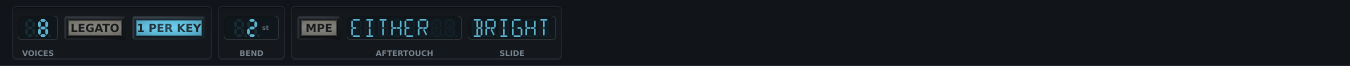
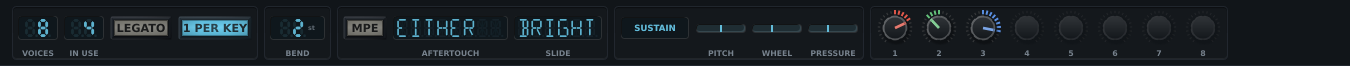
Describe the Playing bar's readouts and macros, and picture them

diff --git a/docs/playing/index.html b/docs/playing/index.html
@@ -63,7 +63,7 @@
                     "width": 1200,
                     "height": 630
                 },
-                "dateModified": "2026-10-11",
+                "dateModified": "2026-10-12",
                 "breadcrumb": {
                     "@id": "https://benjamindehli.github.io/overtonium/playing/#breadcrumb"
                 }
@@ -376,22 +376,26 @@
                     </p>
 
                     <p>
-                        <strong>Playing</strong> holds the voice count with Legato and One voice per key beside it, the pitch bend range, and MPE with
-                        Aftertouch from and Slide to. <strong>Tuning</strong> holds the temperament, root and reference pitch, with the drift beside
-                        them under Adaptive. Under Adaptive it also has a NO DRIFT switch that keeps the keyboard home, a 7:4 switch for the harmonic
-                        seventh, a PURE lamp and the Retune knob, which between them say <a href="../tuning/#adaptive">what Adaptive is doing</a> to
-                        the chord you hold. Last come twelve displays, one for each note, saying how far it sits from equal temperament in cents, with
-                        the white keys on a lighter ground the way a keyboard has them. Each display opens the same list as its entry in Settings and
-                        each switch lights while it is on, so a bar is another way to reach the same settings rather than a second copy of them. In a
-                        window too narrow for a whole bar, it wraps onto further rows the way the top bar does, and takes the extra height from the
-                        mixer.
+                        <strong>Playing</strong> holds the voice count with IN USE, how many voices are sounding, release tails included, and Legato
+                        and One voice per key beside it, the pitch bend range, and MPE with Aftertouch from and Slide to. Then it shows what your
+                        hands are doing. SUSTAIN lights while the pedal is down. PITCH shows the pitch wheel from the middle against the bend range,
+                        or under MPE the key bent furthest. WHEEL and PRESSURE rise from the left, PRESSURE showing what Aftertouch from follows or
+                        the key pressed hardest, whichever is more. Last come the eight <a href="#macros">macros</a> as knobs in their colours, each
+                        turning the same amount as its slider in MACROS, and a macro not yet made shows a blank knob. <strong>Tuning</strong> holds
+                        the temperament, root and reference pitch, with the drift beside them under Adaptive. Under Adaptive it also has a NO DRIFT
+                        switch that keeps the keyboard home, a 7:4 switch for the harmonic seventh, a PURE lamp and the Retune knob, which between
+                        them say <a href="../tuning/#adaptive">what Adaptive is doing</a> to the chord you hold. Last come twelve displays, one for
+                        each note, saying how far it sits from equal temperament in cents, with the white keys on a lighter ground the way a keyboard
+                        has them. Each display of a setting opens the same list as its entry in Settings and each switch lights while it is on, so a
+                        bar is another way to reach the same settings rather than a second copy of them. In a window too narrow for a whole bar, it
+                        wraps onto further rows the way the top bar does, and takes the extra height from the mixer.
                     </p>
 
                     <figure>
                         <img
                             loading="lazy"
                             src="../overtonium-playing-bar.webp"
-                            alt="The Playing bar: eight voices with Legato off and One voice per key lit, a bend range of 2 semitones, and MPE off with aftertouch from Either and slide to Brightness."
+                            alt="The Playing bar with C7 held on the pedal: eight voices with four in use, Legato off and One voice per key lit, a bend range of 2 semitones, MPE off with aftertouch from Either and slide to Brightness, SUSTAIN lit, the pitch wheel at rest in the middle, the mod wheel and pressure part way up, and three macros made in red, green and blue followed by five blank knobs."
                             width="1350"
                             height="66"
                         />

diff --git a/Tools/render_docs_images.cpp b/Tools/render_docs_images.cpp
@@ -29,6 +29,7 @@
 #include <cstdio>
 #include <cstdlib>
 #include <functional>
+#include <iterator>
 #include <memory>
 #include <vector>
 
@@ -269,6 +270,9 @@ int main(int argc, char **argv) {
   // window as it first opens. The Tuning bar is shown under Adaptive with C7
   // held in place of the chord above, the chord the Tuning page describes its
   // readouts on, so the picture can be checked against what the page says.
+  // The Playing bar shows C7 played with the pedal down, the mod wheel part
+  // way up and some pressure, and three macros made, so its readouts and
+  // knobs have something to show.
   juce::TextButton *playingButton = nullptr, *tuningButton = nullptr;
   for (auto *b : descendantsOf<juce::TextButton>(*editor)) {
     if (b->getTitle() == "Playing")
@@ -303,9 +307,35 @@ int main(int argc, char **argv) {
       midi.clear();
     }
 
-    if (pass == 0)
+    if (pass == 0) {
       for (int note : kSeventh)
         midi.addEvent(juce::MidiMessage::noteOn(1, note, 0.9f), 0);
+
+      // After the first chord's note-offs, so the pedal holds only C7.
+      midi.addEvent(juce::MidiMessage::controllerEvent(1, 64, 127), 0);
+      midi.addEvent(juce::MidiMessage::controllerEvent(1, 1, 52), 0);
+      midi.addEvent(juce::MidiMessage::channelPressureChange(1, 40), 0);
+    }
+  }
+
+  // Level, Pitch mod depth and Release, in red, green and blue, pushed by
+  // differing amounts either way.
+  {
+    const struct {
+      int row, colour;
+      float amount;
+    } made[] = {{19, 1, 0.45f}, {4, 4, -0.3f}, {13, 6, 0.7f}};
+
+    const auto set = [&plugin](const juce::String &id, float plain) {
+      if (auto *parameter = plugin.apvts.getParameter(id))
+        parameter->setValueNotifyingHost(parameter->convertTo0to1(plain));
+    };
+
+    for (int m = 0; m < (int)std::size(made); ++m) {
+      set(ovt::params::macroRowId(m), (float)made[m].row);
+      set(ovt::params::macroColourId(m), (float)made[m].colour);
+      set(ovt::params::macroAmountId(m), made[m].amount);
+    }
   }
 
   playingButton->onClick();
@@ -317,6 +347,10 @@ int main(int argc, char **argv) {
     latest = chord;
 
   playing.front()->refresh();
+  playing.front()->showActivity(
+      {plugin.getActiveVoiceCount(), plugin.isSustainDown(),
+       plugin.getBendPosition(), plugin.getWheelPosition(),
+       plugin.getPressurePosition()});
   tuning.front()->refresh();
   tuning.front()->showChord(latest);
 

diff --git a/Tests/plugin_runtime_test.cpp b/Tests/plugin_runtime_test.cpp
@@ -7781,6 +7781,37 @@ void testPlayingReadouts(OvertoniumProcessor &p) {
   check(mpeDown && !p.isSustainDown(), "and SUSTAIN follows the pedal");
 
   send({juce::MidiMessage::allSoundOff(1)});
+  setParam(ovt::params::mpeId, 0.0f);
+  send({});
+
+  // The editor reads all of this from the message thread while the audio
+  // thread writes it. Nothing here can see a race, but a run under the thread
+  // sanitizer can, and this is what gives it two threads to watch.
+  {
+    std::atomic<bool> playing{true};
+    std::thread audio([&] {
+      for (int b = 0; b < 200; ++b) {
+        const auto on = (b % 2) == 0;
+        send({juce::MidiMessage::controllerEvent(1, 64, on ? 127 : 0),
+              juce::MidiMessage::controllerEvent(1, 1, b % 128),
+              juce::MidiMessage::pitchWheel(1, (b * 80) % 16384),
+              on ? juce::MidiMessage::noteOn(1, 60 + b % 12, 0.8f)
+                 : juce::MidiMessage::noteOff(1, 60 + (b - 1) % 12)});
+      }
+      playing = false;
+    });
+
+    float seen = 0.0f;
+    while (playing)
+      seen += (float)p.getActiveVoiceCount() + (float)p.isSustainDown() +
+              p.getBendPosition() + p.getWheelPosition() +
+              p.getPressurePosition();
+
+    audio.join();
+    check(std::isfinite(seen), "and all of it can be read while it is played");
+  }
+
+  send({juce::MidiMessage::allSoundOff(1)});
   restoreSessionSettings(p);
   p.applyFactoryPreset(presetIndex("Init"));
 }

diff --git a/DESIGN.md b/DESIGN.md
@@ -430,9 +430,13 @@ The settings that get changed while playing, the voice count, Legato, one voice 
 
 **Both start closed, and the window keeps its size.** A bar takes its height from the mixer, which scrolls, so opening one never resizes a plugin window, which hosts handle badly. The exception is a window already at its minimum, which grows by the bar, since the floor counts the open bars. Which are open is kept with the session, beside the fold mask.
 
-**A bar is the Settings menu's own lists.** Each display opens the same list its Settings entry has, built by `ui::settings` in `SettingsMenus.cpp`, and both carry out a choice through the same `settings::apply` with the same item ids, so the two cannot drift apart. The menu keeps every entry. In a narrow window a bar wraps its groups onto further rows the way the top bar does, each a row of the top bar's height, and the window's floor counts the rows. A group wider than the whole bar, which the top bar never has, wraps its own controls onto lines inside its frame, shared out evenly, so the twelve cents displays come out as two lines of six rather than eleven and one.
+**A bar is the Settings menu's own lists.** Each display of a setting opens the same list its Settings entry has, built by `ui::settings` in `SettingsMenus.cpp`, and both carry out a choice through the same `settings::apply` with the same item ids, so the two cannot drift apart. The menu keeps every entry. In a narrow window a bar wraps its groups onto further rows the way the top bar does, each a row of the top bar's height, and the window's floor counts the rows. A group wider than the whole bar, which the top bar never has, wraps its own controls onto lines inside its frame, shared out evenly, so the twelve cents displays come out as two lines of six rather than eleven and one.
 
 **The readouts are worked out off the audio thread.** After every settle the engine publishes the held chord, each key's frequency and version and whether it is the harmonic seventh, through a triple buffer, and the editor reads it at 30 Hz whether or not the bar is open, so the bar opens on the chord being held. `AdaptiveReading::of` works out from it whether any interval was given up, whether a seventh is on 7:4, and the drift as the chord's average version, and the bar shows them as PURE and 7:4, two words lit in screens the way the gutter's switches are, and a two-cell DRIFT display. A screen reader is told which interval gave way when PURE is dark. A panel of lit words and segments had no place for a line of free text saying 4:5:6:7, so the harmonic numbers are not shown.
+
+**The Playing bar shows what the hands are doing.** IN USE, SUSTAIN and three needles, PITCH, WHEEL and PRESSURE, read what the processor publishes at the end of every block, as atomics beside the voice count. Each is one number on its own, so nothing has to be handed over as a set. The processor follows the pedal itself, one bit per MIDI channel, rather than asking the engine, because under MPE the parser takes CC 64 and the engine never hears it. PITCH is the pitch wheel or, under MPE, the key bent furthest, against the BEND range either way, so it means the same with MPE on or off. PRESSURE is what Aftertouch from hands every channel or the key pressed hardest, whichever is more. Only keys still down count, the pedal's included, so a needle falls back as a key comes up rather than when its tail ends. The needles are the strips' PITCH MOD needle: PITCH rests in the middle and is marked there, and WHEEL and PRESSURE rest at the left end with no mark, since a middle means nothing to a reading that only rises.
+
+**The macros are knobs on the same parameters.** Each turns its macro's amount, the parameter the slider in MACROS turns, so the two cannot disagree, and wears the macro's colour and its row's skew. A macro nobody has made has a blank knob, its ring unlit, no pointer, and its cap at rest, since the collar turns with the knob and would give a setting away. They are numbered rather than named, because a row's name is too long for the caption under a 38 pixel knob and the colour already says which is which, as it does in the panel. With them the Playing bar takes four rows at the narrowest window.
 
 **Twelve displays, one a pitch class, in every temperament.** Each says how far its note sits from equal temperament in cents, with A on the reference, measured at middle C's octave since a pitch class sits the same distance from equal in all of them. Two keys an octave apart always read the same under Adaptive too, since octaves are taken first and never given up. Under a fixed temperament the twelve are a chart of the scale, all lit, because what a key is tuned to does not depend on what is held. Under Adaptive the held ones light and show where they are sounding, and the rest stay unlit. What each of those would sound if struck into silence, the version its pitch class used last, which the engine publishes with the chord, is still worked out and given to a screen reader. Cents rather than ratios, because half the temperaments have no ratios to give and the display has to mean the same thing under all of them. The seven white keys stand on the unlit plastic every cap on the panel is moulded in, with their names in the caps' near-black ink, and the five black keys on the pocket's dark floor, so which note is which reads the way a keyboard does. The ground is drawn on the panel behind each display and its name rather than in the display. It runs to the pocket's edges and halfway into the gaps, so E and F, and B and C, are one continuous ground, and the pocket's shading goes over it, the same shadow under the top edge and light along the bottom the dark floor has, so the white keys sit in the same recess as the black ones rather than on top of it.
 

diff --git a/CONTRIBUTING.md b/CONTRIBUTING.md
@@ -243,7 +243,7 @@ cmake --build build --target overtonium_render_docs
 ./build/overtonium_render_docs_artefacts/overtonium_render_docs out
 ```
 
-That writes the window, the six-channel detail and the top bar, and then, with both bars opened and C7 held under Adaptive, the Playing and Tuning bars on their own. Where each crop falls comes from `kGutterWidth`, `kStripWidth` and `TopBar::heightForWidth` rather than from numbers typed in, so a taller bar or a wider strip moves the crops with it instead of slicing one through the middle of a row. A second argument scales the window, and it is a genuine redraw rather than an upscale, which is where artwork needing the window larger than the page shows it comes from.
+That writes the window, the six-channel detail and the top bar, and then, with both bars opened and C7 held under Adaptive, the Playing and Tuning bars on their own, the Playing bar with the pedal down, the mod wheel and pressure part way up and three macros made. Where each crop falls comes from `kGutterWidth`, `kStripWidth` and `TopBar::heightForWidth` rather than from numbers typed in, so a taller bar or a wider strip moves the crops with it instead of slicing one through the middle of a row. A second argument scales the window, and it is a genuine redraw rather than an upscale, which is where artwork needing the window larger than the page shows it comes from.
 
 It writes PNG, because JUCE has no WebP encoder, so producing what the pages actually load is a second step with a lossless encoder:
 
